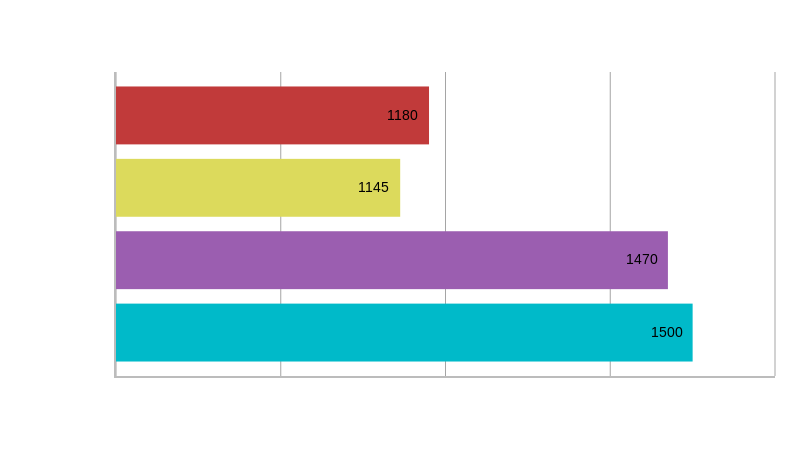
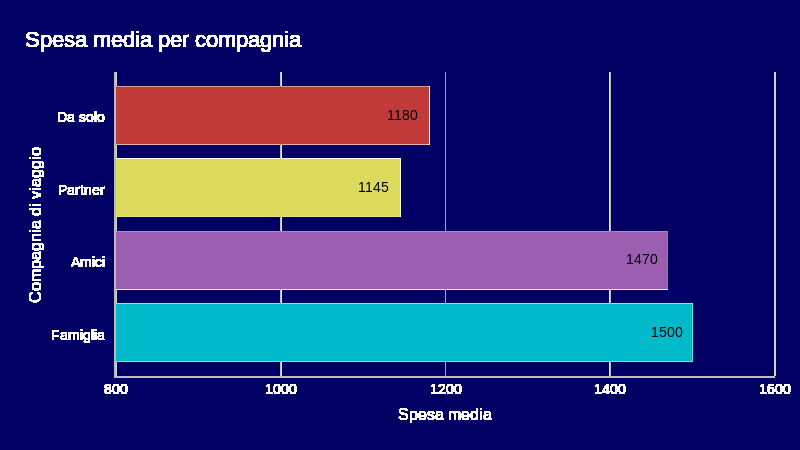
filled background for charts

diff --git a/charts/fill_background.py b/charts/fill_background.py
@@ -1,0 +1,37 @@
+from typing import List
+import cv2
+import os
+
+
+def get_all_charts() -> List[str]:
+    charts = []
+    for file in os.listdir('.'):
+        if file.endswith('.png'):
+            charts.append(file)
+    return charts
+
+
+def fill_background(chart: str) -> None:
+    # Fill the transparent background with blue
+    im = cv2.imread(chart, cv2.IMREAD_UNCHANGED)
+
+    for i in range(im.shape[0]):
+        for j in range(im.shape[1]):
+            if tuple(im[i, j]) == tuple([0, 0, 0, 0]):
+                im[i, j] = [100, 0, 0, 255]
+
+    cv2.imwrite(chart, im)
+
+
+def main() -> None:
+    
+    charts = get_all_charts()
+    for chart in charts:
+        print(f'Filling background for {chart}')
+        fill_background(chart)
+    
+
+
+if __name__ == '__main__':
+    main()
+

diff --git a/README.md b/README.md
@@ -8,7 +8,7 @@ The survey questions are available in a Google Forms-like format in the [Google 
 
 The analysis was conducted using Python and the Pandas library inside a Jupyter Notebook. The notebook with the code is available in the [analyze.ipynb](analyze.ipynb) file.
 
-Unfortunately, the graphic part of project was meant to be done in Italian, so the following charts are in Italian.  
+Unfortunately, the graphic part of project was meant to be done in Italian, so the following charts are in Italian. I translated the chart titles so that you can get the gist of what they are about.  
 These charts are in no particular order.
 
 <br>
@@ -34,7 +34,7 @@ These charts are in no particular order.
 ### Where are people from?
 ![](charts/Continente%20di%20provenienza%20dei%20partecipanti.png)
 
-#### Vacation enjoyment based on age range
+### Vacation enjoyment based on age range
 ![](charts/Divertimento%20in%20base%20all'et%C3%A0.png)
 
 ### Age of the respondents
